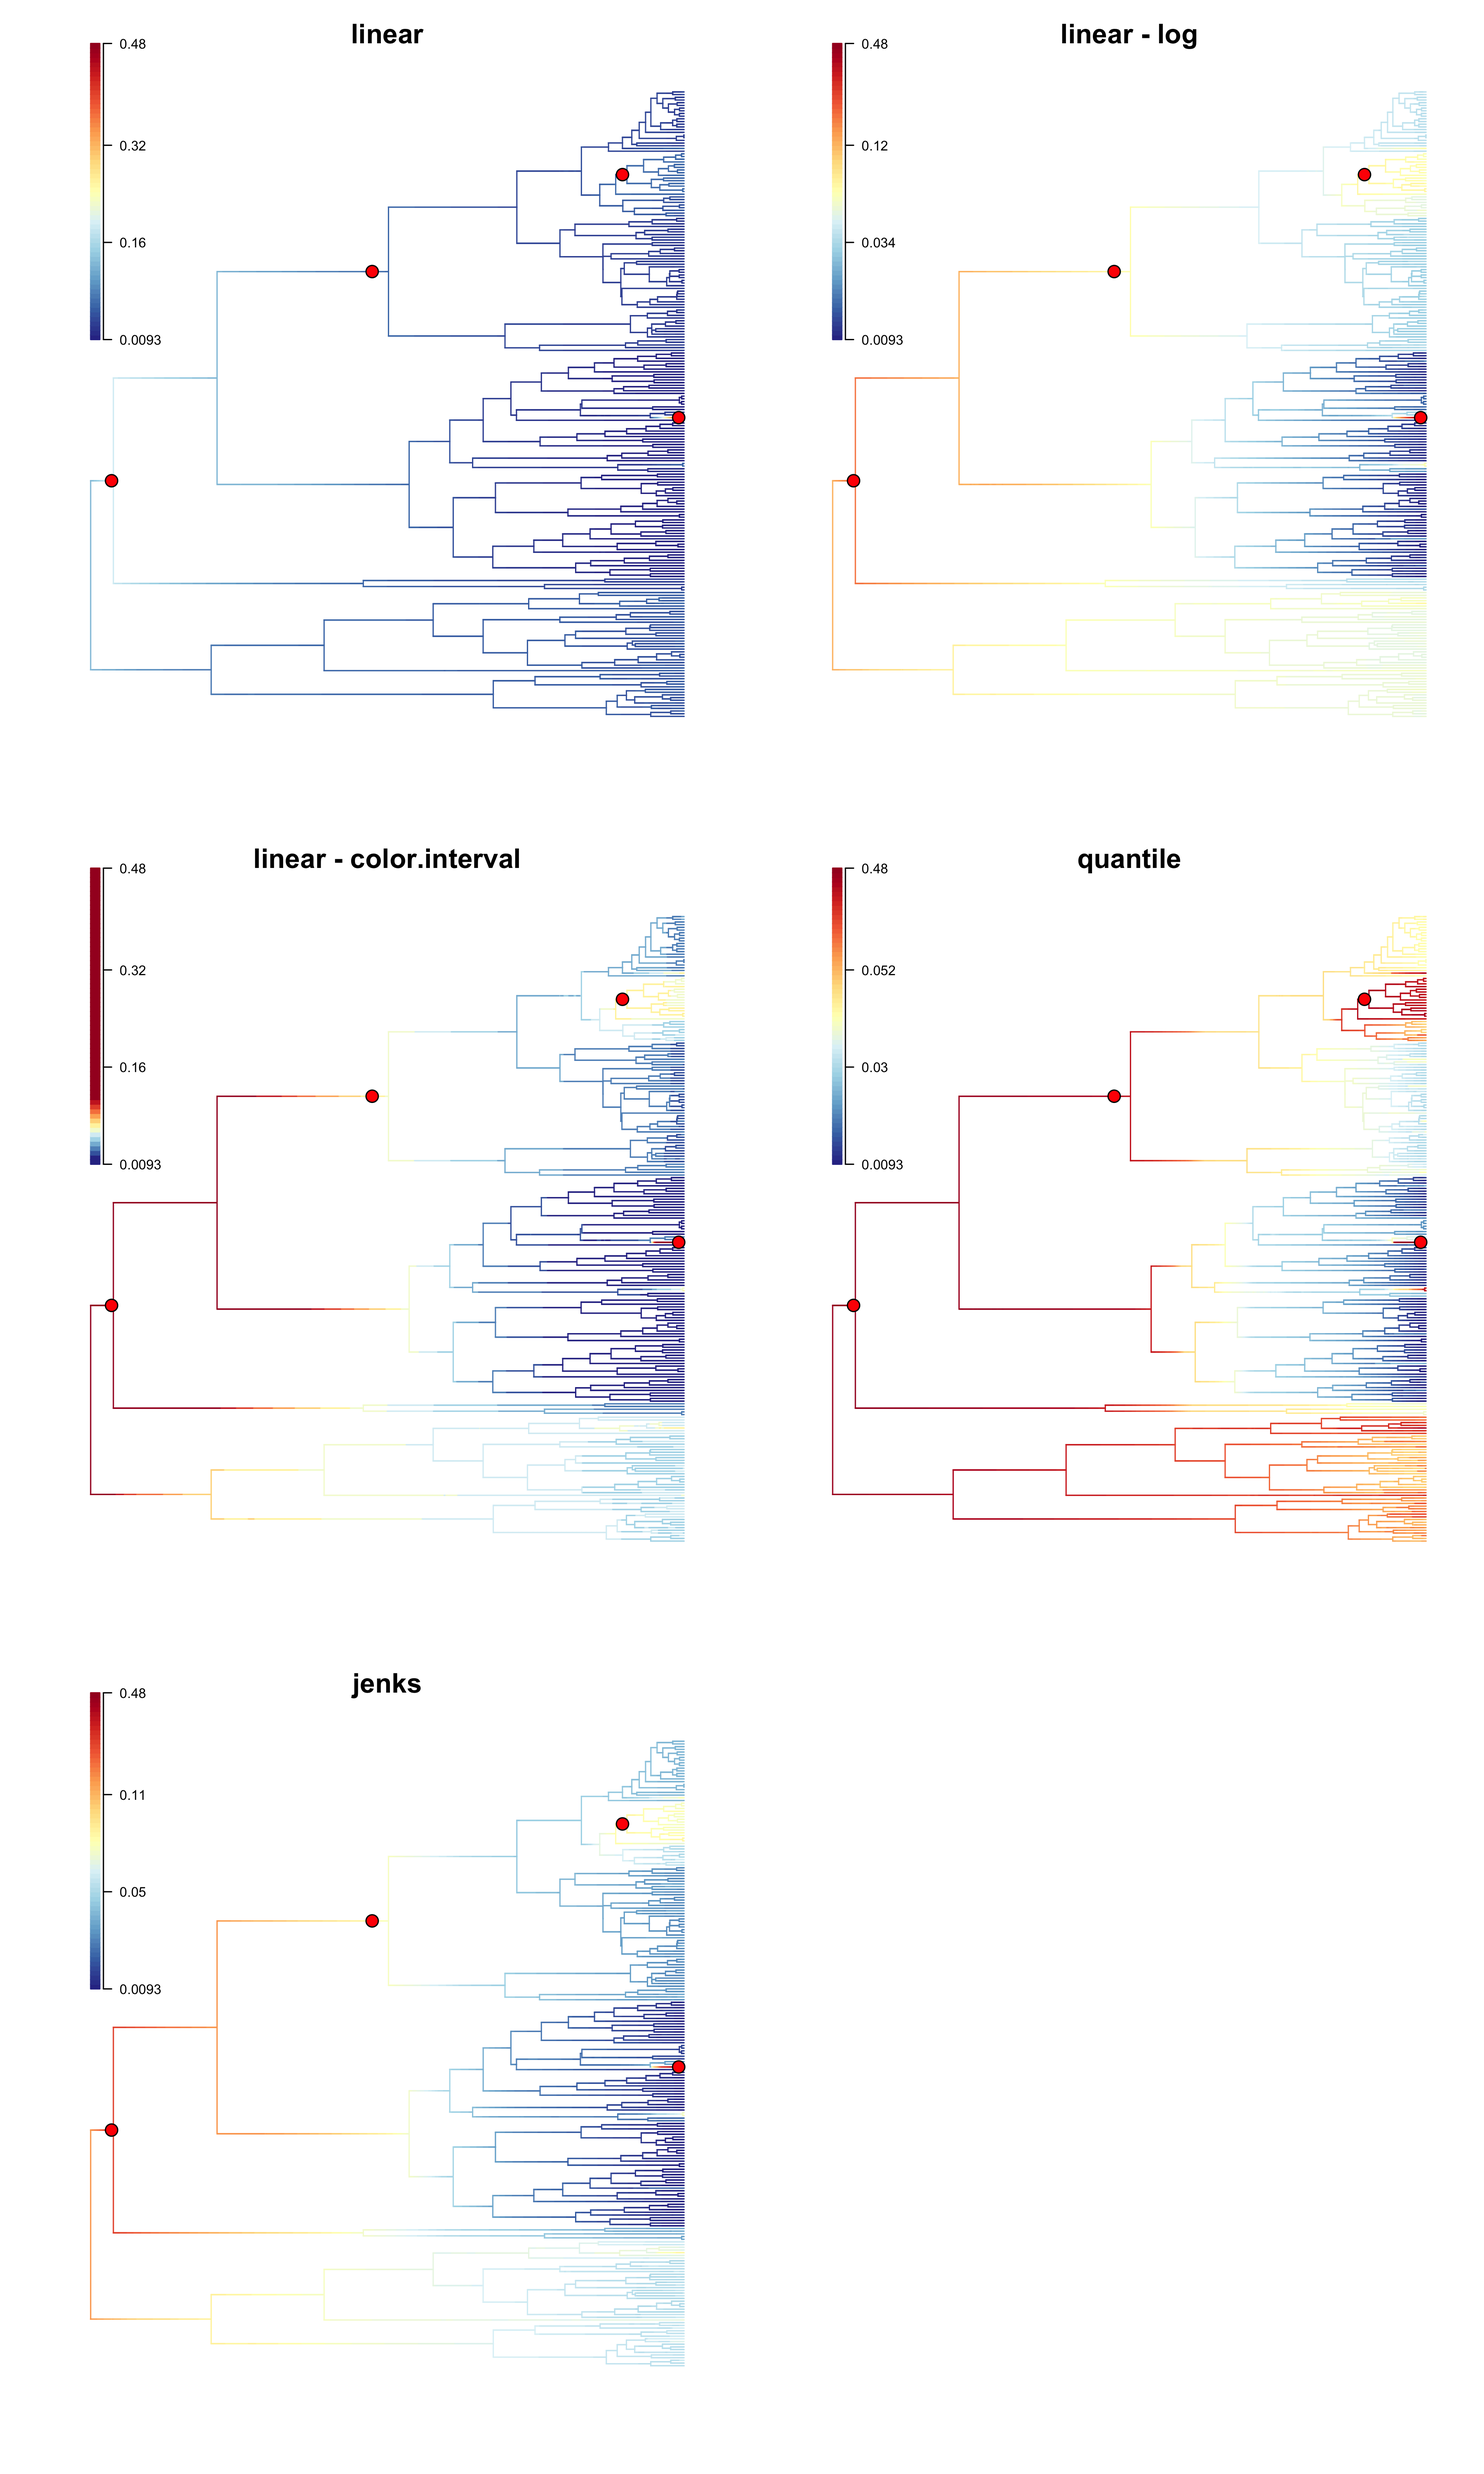
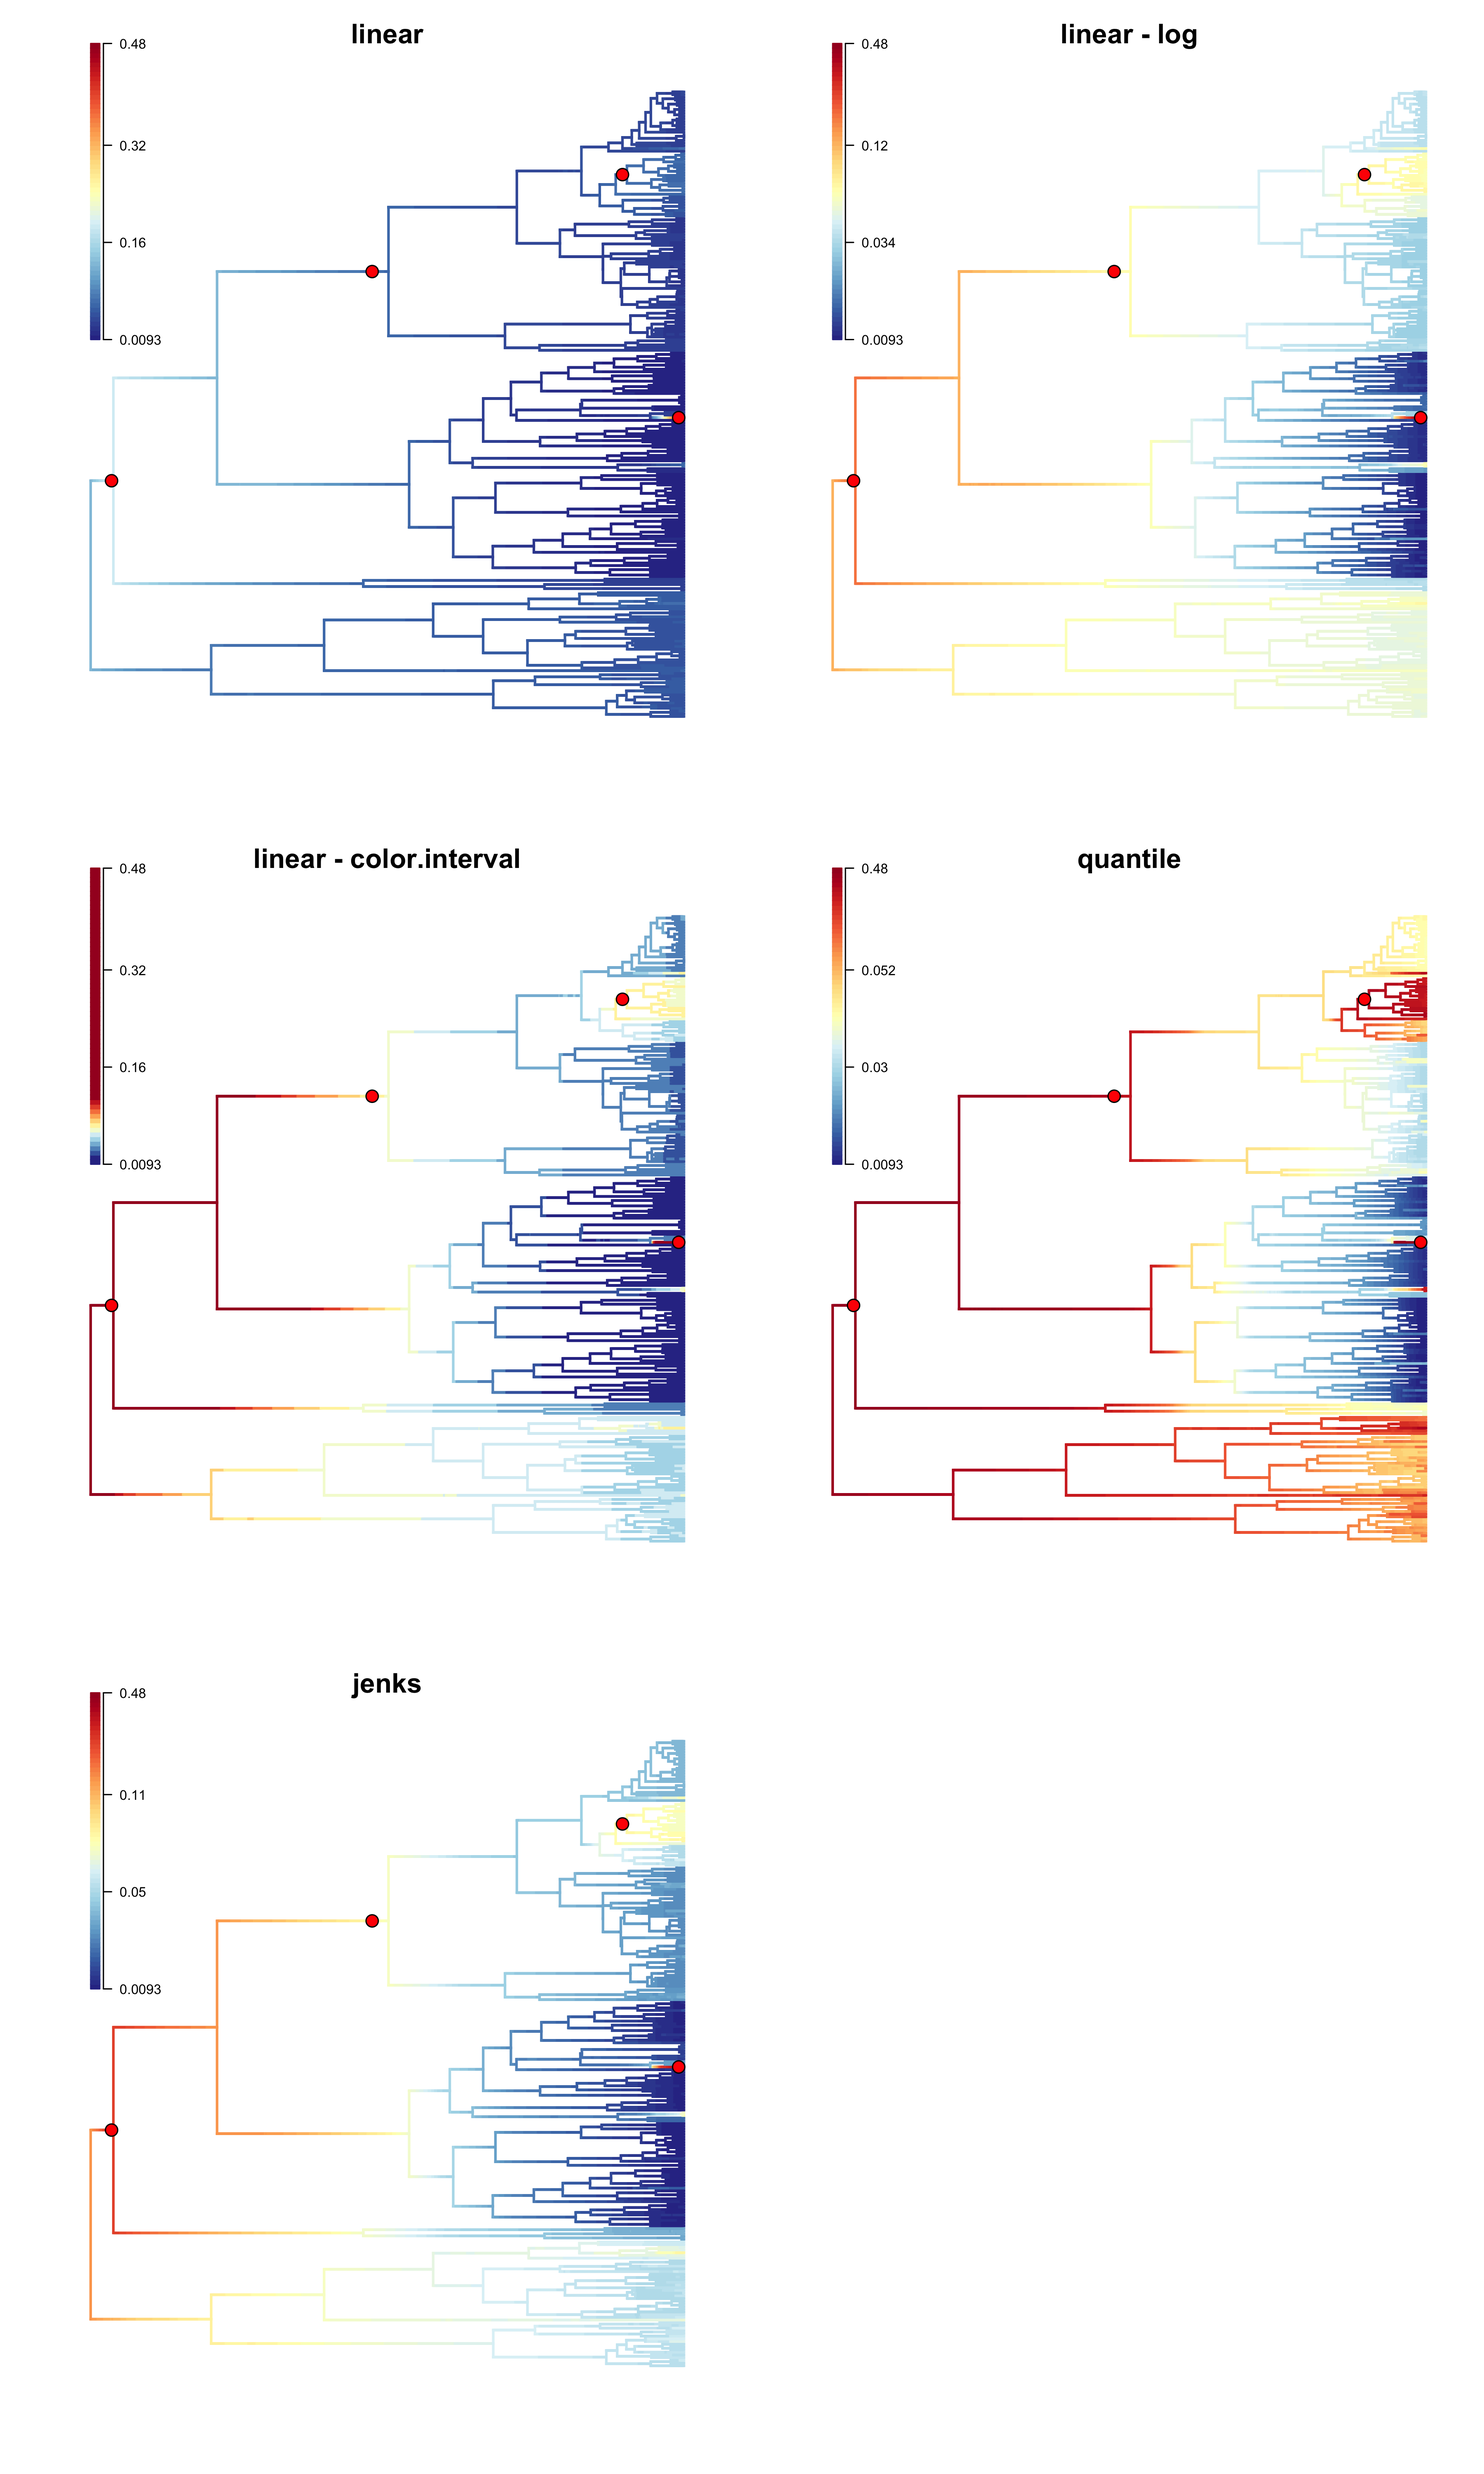
updates to documentation

diff --git a/doc/source/bammgraph.rst b/doc/source/bammgraph.rst
@@ -21,8 +21,31 @@ A **phylorate plot** showing speciation rates (cool colors = slow, warm = fast) 
 	edata_whales <- getEventData(whales, events.whales, burnin=0.1)
 	plot.bammdata(edata_whales, lwd=2, method="polar", pal="temperature")
 
-	 
- 
+
+.. _bammgraphgallery1.5:
+.. figure:: figs/breaksForGallery.png
+	:width: 700
+	:align: center
+
+Multiple options are available in BAMMtools for mapping colors to rates in phylorate plots. Changing these options can be particularly useful if the distribution of rates across th phylogeny is heavily skewed. See `Color ramps and phylorate plots <colorbreaks.html>`_ for more information::
+
+	par(mfrow=c(1,3), mar=c(1, 0.5, 0.5, 0.5), xpd=TRUE)
+
+	q <- plot.bammdata(ed, tau=0.001, breaksmethod='linear', lwd=2)
+	addBAMMshifts(ed, par.reset=FALSE, cex=2)
+	title(sub='linear',cex.sub=2, line=-1)
+	addBAMMlegend(q, corners=c(0, 1, 140, 220), side=4, las=1)
+
+	q <- plot.bammdata(ed, tau=0.001, breaksmethod='linear', color.interval=c(NA,0.12), lwd=2)
+	addBAMMshifts(ed, par.reset=FALSE, cex=2)
+	title(sub='linear - color.interval',cex.sub=2, line=-1)
+	addBAMMlegend(q, corners=c(0, 1, 140, 220), side=4, las=1)
+
+	q <- plot.bammdata(ed, tau=0.001, breaksmethod='jenks', lwd=2)
+	addBAMMshifts(ed, par.reset=FALSE, cex=2)
+	title(sub='jenks',cex.sub=2, line=-1) 
+	addBAMMlegend(q, corners=c(0, 1, 140, 220), side=4, las=1)
+
  
 
 Individual rate-shift configurations sampled by BAMM
@@ -74,7 +97,7 @@ Macroevolutionary cohort matrix
    :width: 700
    :align: center
 
-Macroevolutionary cohort analysis displays the pairwise probability that any two species share a common macroevolutionary rate dynamic. These pairwise probabilities can be extracted quickly from BAMM output using the function ``getCohortMatrix``. The example above shows the cohort matrix for the whales dataset included with BAMMtools. Each cell of the cohort matrix corresponds to a pair of tip taxa from the whale phylogeny; the phylogeny is plotted for reference in the left and upper margins of the figure. You can read this plot by drawing an imaginary line between any two tips of the tree; the color of the matrix at their intersection is the probability that those taxa share a common rate dynamic. Species pairs that share a common rate dynamic have red cohort matrix colors; species with decoupled macroevolutionary dynamics have blue cohort matrix colors (the legend on the right gives the actual cohort probability). The cohort matrix method is fully explained in this (`Systematic Biology article <http://sysbio.oxfordjournals.org/content/63/4/610>`_). The biological interpretation of the above results is that there are two general macroevolutionary dynamics across whales: one pertaining to the dolphins, and one pertaining to the non-dolphins. The single isolated lineage in the middle of the plot that shows intermediate correlations with the "fast clade" (dolphins) and "slow lineages" (non-dolphins) is the killer whale. BAMMtools provides functions that allow easy generation of cohort matrices::
+:ref:`Macroevolutionary cohort analysis<cohortExplanation>` displays the pairwise probability that any two species share a common macroevolutionary rate dynamic. These pairwise probabilities can be extracted quickly from BAMM output using the function ``getCohortMatrix``. The example above shows the cohort matrix for the whales dataset included with BAMMtools. Each cell of the cohort matrix corresponds to a pair of tip taxa from the whale phylogeny; the phylogeny is plotted for reference in the left and upper margins of the figure. You can read this plot by drawing an imaginary line between any two tips of the tree; the color of the matrix at their intersection is the probability that those taxa share a common rate dynamic. Species pairs that share a common rate dynamic have red cohort matrix colors; species with decoupled macroevolutionary dynamics have blue cohort matrix colors (the legend on the right gives the actual cohort probability). The cohort matrix method is fully explained in this (`Systematic Biology article <http://sysbio.oxfordjournals.org/content/63/4/610>`_). The biological interpretation of the above results is that there are two general macroevolutionary dynamics across whales: one pertaining to the dolphins, and one pertaining to the non-dolphins. The single isolated lineage in the middle of the plot that shows intermediate correlations with the "fast clade" (dolphins) and "slow lineages" (non-dolphins) is the killer whale. BAMMtools provides functions that allow easy generation of cohort matrices::
 
 	cmat <- getCohortMatrix(edata_whales)
 	cohorts(cmat, edata_whales, lwd=3, pal="temperature")

diff --git a/doc/source/colorbreaks.rst b/doc/source/colorbreaks.rst
@@ -1,10 +1,14 @@
-
+.. _colorbreaks:
 
 Color ramps and phylorate plots
 ===============================
 
 
 When plotting instantaneous rates along the branches of a phylogeny with ``plot.bammdata`` (as well as with any other BAMMtools function that creates a phylorate plot), it is important to keep in mind how rates are mapped to colors, and what this can mean for interpretation. 
+
+
+What options are available?
+...........................
 
 ``plot.bammdata`` has a number of options available to bin rates into particular colors (the breaksmethod options). Depending on the dataset, these different options can lead to drastically different phylorate plots. On top of these breaksmethods, there are additional data transformation/truncation options that will modify the behavior of the breaksmethods. 
 
@@ -38,12 +42,14 @@ It is important to understand that while these different color mapping methods c
 
 We illustrate these differences with an example. This is a BAMM analysis of primate body mass (Vos and Moors 2008). For each breaks method, we generated a histogram showing the frequency of rate values in the dataset, colored according to the selected breaks method. Vertical bars show how the rates have been binned. 
 
+From these histograms, it is clear that there are segments of the phylogeny with much higher rates than for the rest of the phylogeny, but these segments encompass only a very small subset (the histogram has a long tail). 
+
 .. _breaksTest:
 .. figure:: figs/breaksTest.png
 	:width: 700
 	:align: center
 
-Now we show how these different methods produce different phylorate figures. 
+Now we show how these different methods produce different phylorate figures. Due to the long tail of the distribution of rates, the linear breaks method does a poor job of showing rate variation across the phylogeny. 
 
 .. _breaksTestTrees:
 .. figure:: figs/breaksTestTrees.png
@@ -54,7 +60,7 @@ Now we show how these different methods produce different phylorate figures.
 What should you do?
 ...................
 
-Although, we have provided a number of options to best convey rate variation across a phylogeny, it is now possible to generate a large number of different phylorate plots and it is important to not misuse these options. 
+Although, we have provided a number of options to best convey rate variation across a phylogeny, it is now possible to generate a large number of different phylorate plots and it is important to not misuse these options. Despite what may be written in an accompanying text, people will interpret these phylorate plots as evidence of significant rate dynamics. Therefore it will be important to carefully select from these options.
 
 The goal is to find the right balance between a visually appealing figure and one that properly portrays the information at hand. We do not want to hide real rate variation, but we also do not want to exaggerate rate heterogeneity "noise" coming from non-core shifts. 
 

diff --git a/doc/source/rateshifts.rst b/doc/source/rateshifts.rst
@@ -315,9 +315,10 @@ Regardless of which approach you use, bear in mind that it is incorrect to assum
 
 In the toy example :ref:`above<toyshifts>`, we had evidence for rate heterogeneity in the dataset (with posterior probability 1.0), yet the marginal shift probabilities (0.49, 0.51) are not "significant".  This is a most important point: you can have massive evidence for rate heterogeneity in your dataset, but your marginal shift probabilities will be a function of the frequency distribution of **distinct alternative shift configurations**.
 
+.. _cohortExplanation:
 
 Macroevolutionary cohort analysis
----------------------------------------
+---------------------------------
 
 In order to avoid some of the challenges associated with visualizing complex rate shift dynamics on large trees, we developed a solution that condenses the rate regime dynamics into a single graphic: the **cohort analysis**. The cohort matrix depicts the pairwise probability that any two lineages share the same macroevolutionary rate dynamics. The cohort matrix method is fully explained in this (`Systematic Biology article <http://sysbio.oxfordjournals.org/content/63/4/610>`_).
 

diff --git a/doc/source/documentation.rst b/doc/source/documentation.rst
@@ -22,6 +22,7 @@ BAMM Documentation
    time-flip
    mc3
    advanced
+   colorbreaks
 
    faq
    troubleshooting
